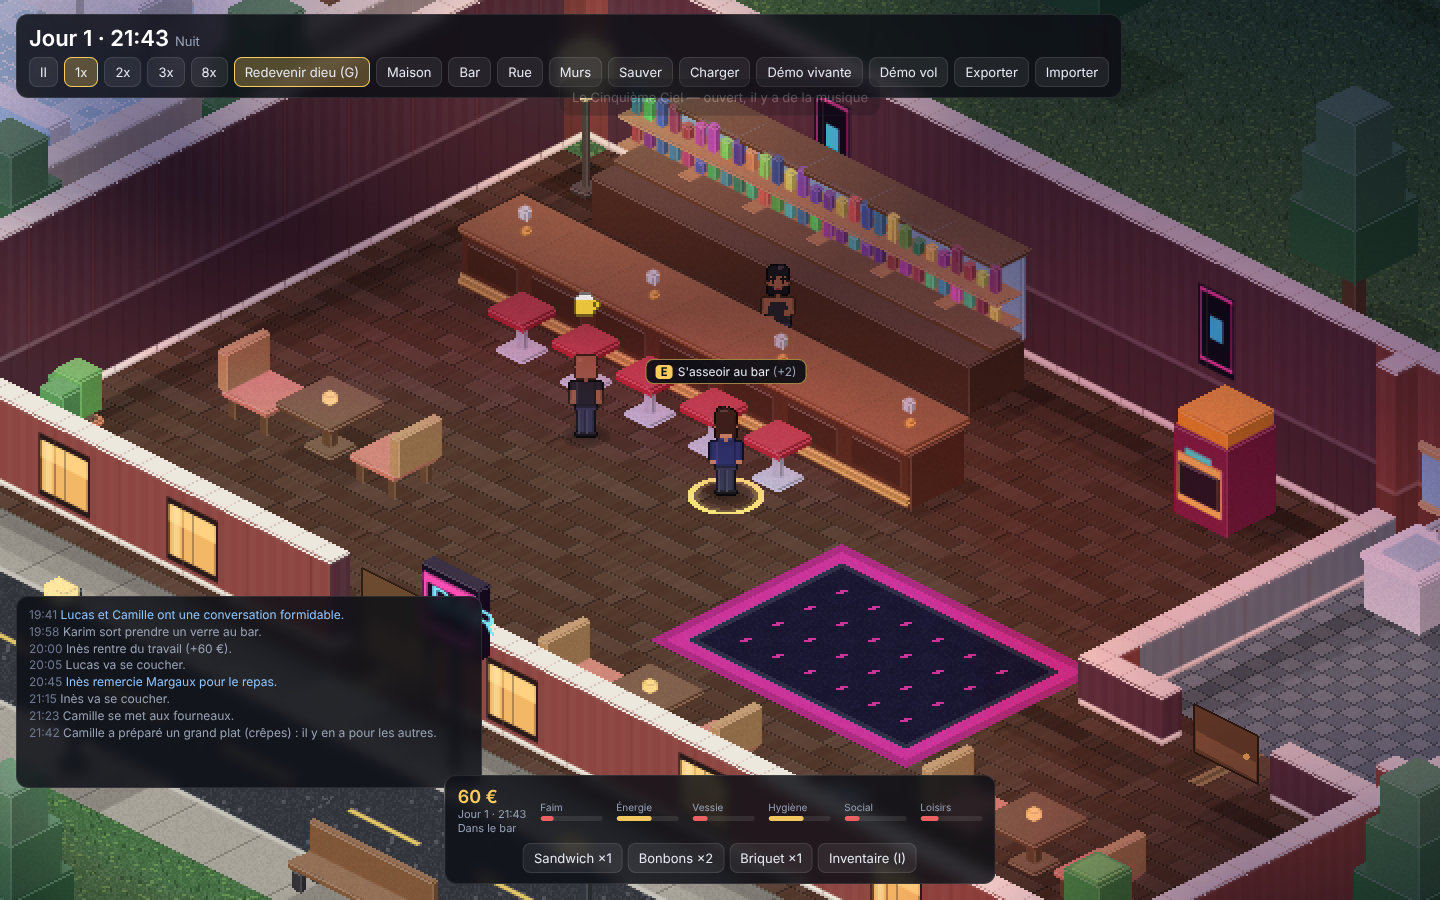
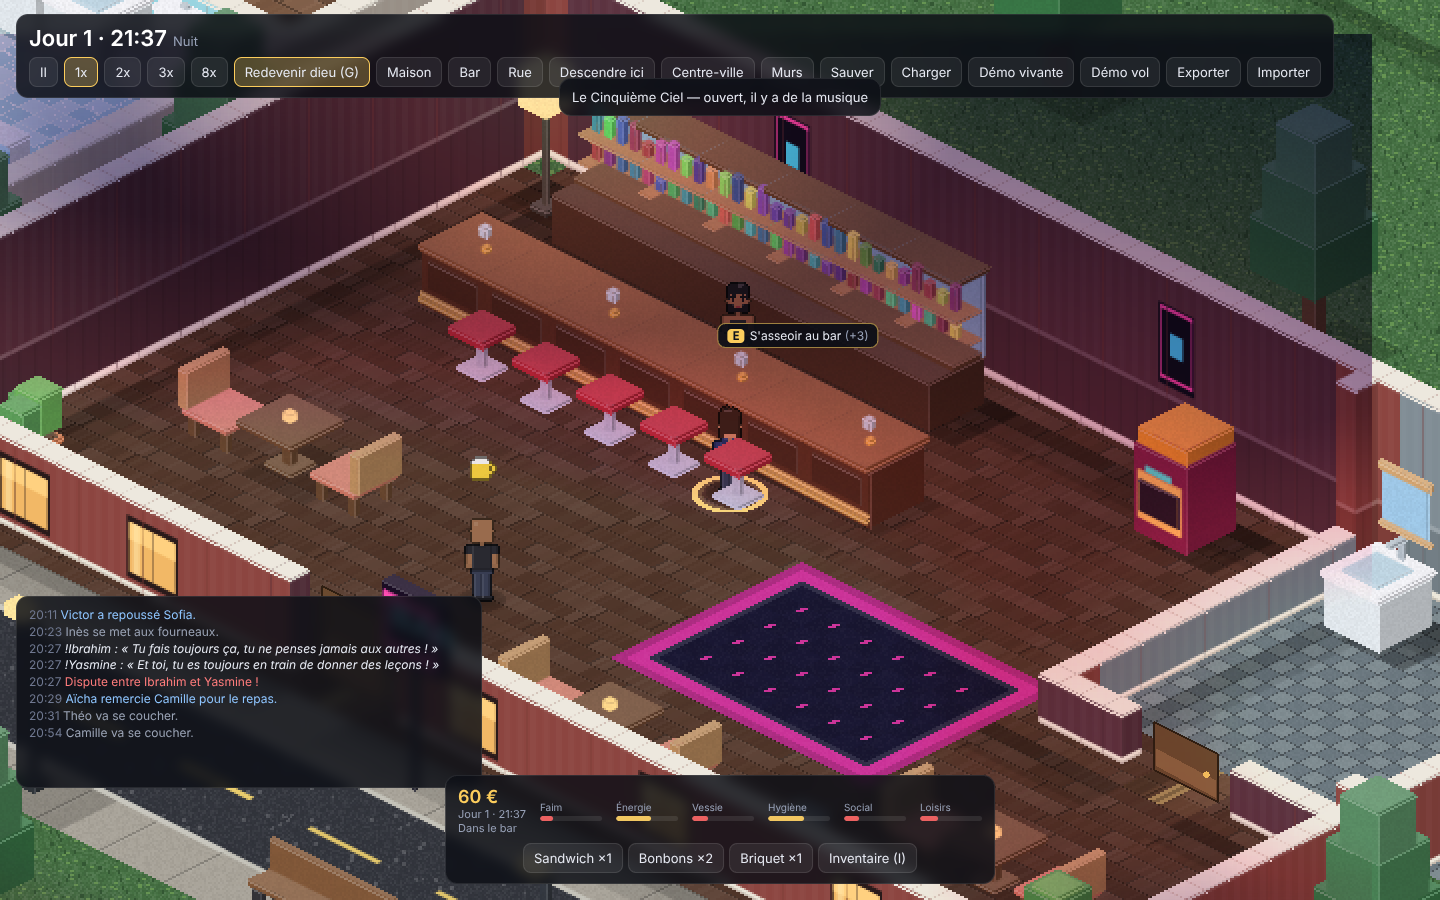
NORIA open world: docs, e2e adjustments

diff --git a/docs/NORIA_OPEN_WORLD.md b/docs/NORIA_OPEN_WORLD.md
@@ -1,0 +1,34 @@
+# NORIA OPEN WORLD 18+ — audit, architecture et plan
+
+## 1. Audit de départ
+- Simulation pure (`src/sim`), rendu (`src/view`), HUD DOM (`src/ui`), art procédural (`src/art`) : séparation saine, conservée.
+- Limites trouvées : carte 48×22 (une maison + un bar), sol dessiné en un seul canvas (limite iOS), aucun commerce, aucune loi, un seul « monde » de 10 personnages.
+
+## 2. Architecture évolutive (ce qui a été posé)
+| Brique | Fichiers | Principe |
+|---|---|---|
+| Carte en quartiers | `sim/layout.ts` | grille 96×40, bâtiments décrits comme des données (`BUILDINGS`), pièces à lettre unique (éclairage par pièce), portes `X` |
+| Rendu par blocs | `view/scene.ts` | sol cuit par blocs 16×16, chargés du plus proche au plus lointain, déchargés hors champ |
+| Bâtiments | `view/scene.ts`, `art/city.ts` | façades, toits, enseignes ; toit effacé à l'intérieur, murs retexturés seulement pour le bâtiment concerné |
+| Population | `sim/city.ts` | citoyens (agenda domicile/travail/café/parc), commerçant, policiers |
+| Commerce | `sim/shop.ts`, `sim/interact.ts` | article pris = objet porté, non payé ; sortir sans payer = vol |
+| Crime & police | `sim/crime.ts` | événement → témoins (vue directe, distance) → appel retardé → dépêche → agent libre le plus proche → poursuite → arrestation → amende, garde à vue, casier |
+| Recherche | HUD `ui/citylife.ts` | étoiles 0–3, décroissance de la chaleur, bandeau « non payé », écran de garde à vue |
+| LOD | `sim/life.ts` | décisions 3× plus rares loin du point de vue |
+| Sauvegarde | `sim/save.ts` | champs optionnels : les anciennes sauvegardes se chargent (10 → 19 personnages) |
+
+## 3. Livré dans cette tranche (jouable, testé)
+Centre-ville est (x57–94) avec épicerie, commissariat (cellule), café, 3 immeubles, parc ; rue Centrale et rue du Marché ; 6 citoyens, 1 commerçant, 2 policiers qui circulent ; vol à l'étalage avec témoin, appel, poursuite, arrestation, libération, casier ; DIEU → DESCENDRE « ici » ; sauvegarde du casier.
+
+## 4. Pas encore fait (honnêtement)
+INCARNER un PNJ ; véhicules ; agression/sang ; personnalisation de l'avatar, logement à posséder/meubler ; revente/commerce ; substances/addictions ; romance/jalousie/nudité contextuelle ; quartiers nocturne, industriel/port, civique, nature/côte ; voitures d'ambiance ; justice simplifiée ; abstraction des PNJ très lointains au-delà du LOD.
+
+## 5. Tests
+109 tests unitaires ; `npm run e2e:city` (taille/blocs, Dieu→Descendre, entrer dans l'épicerie, prendre un article, sortir sans payer, arrestation/libération, sauvegarde, citoyens visibles). Anciennes suites e2e : mobile, iphone, freelife, living, observe, trio, human, pwa vertes ; `e2e.cjs` (bureau, rendu logiciel) est instable en temps (un test différent échoue d'une exécution à l'autre, tous passent par intermittence).
+Non testé : vrai iPhone, vrai GPU (le navigateur de test rend en logiciel).
+
+## 6. Tranche suivante (proposition)
+1. INCARNER (possession d'un PNJ, restitution sans mémoire, souvenirs des autres conservés).
+2. Agression avec sang/blessures visibles, riposte et fuite des témoins, PNJ↔PNJ.
+3. Domicile du joueur (clé, meubles posables) et argent (vente d'objets).
+4. Véhicules animés, quartier port/industriel.
